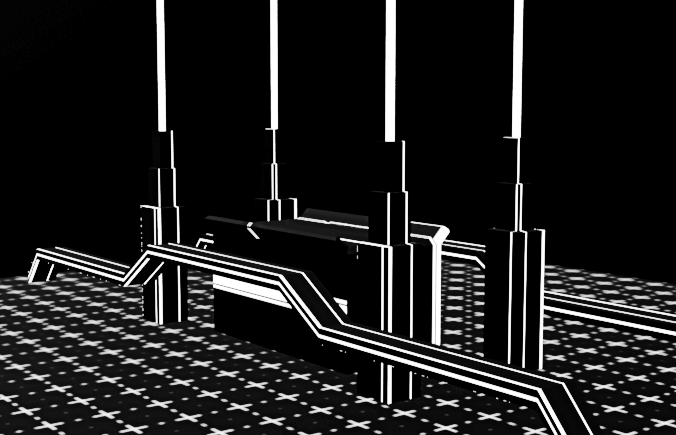
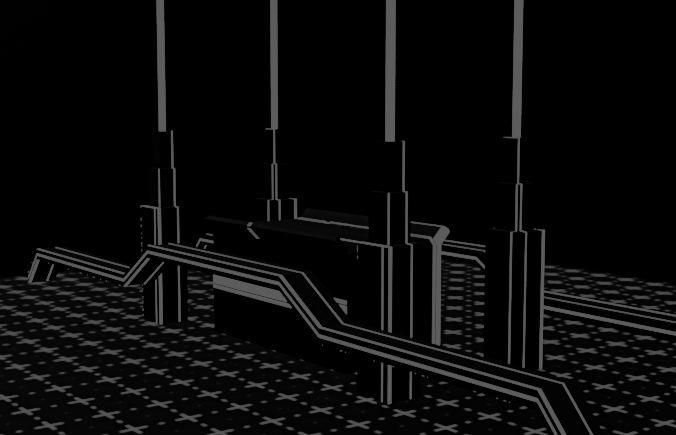
settings_graphics
modified:
	- new images with better contrast
	- modified colors with a better render
	(store/index.js)
	(assets/play_board/map1 and map2 .png)

diff --git a/frontend/src/store/index.js b/frontend/src/store/index.js
@@ -52,28 +52,28 @@ const theme_colors = {
 		b_color: 'hsl(120, 100%, 7%)',
 		logo_color: 'sepia(100%) saturate(1000%) hue-rotate(-240deg) contrast(180%) brightness(1.2)',
 		mesh_color: '#00ff00',
-		image_color: 'sepia(100%) saturate(3000%) hue-rotate(-285deg) contrast(100%) brightness(1.2)',
+		image_color: 'sepia(100%) saturate(1000%) hue-rotate(-285deg) contrast(180%) brightness(1.2)',
 	},
 	red: {
 		color: 'hsl(0, 100%, 59%)',
 		b_color: 'hsl(0, 100%, 7%)',
 		logo_color: 'sepia(100%) saturate(1000%) hue-rotate(-35deg) contrast(180%) brightness(1.2)',
 		mesh_color: '#ff0000',
-		image_color: 'sepia(100%) saturate(1000%) hue-rotate(-40deg) contrast(100%) brightness(1.0)',
+		image_color: 'sepia(100%) saturate(1000%) hue-rotate(-30deg) contrast(180%) brightness(1.2)',
 	},
 	yellow: {
 		color: 'hsl( 60, 100%, 50%)',
 		b_color: 'hsl( 90, 100%, 7%)',
 		logo_color: 'sepia(100%) saturate(1000%) hue-rotate(35deg) contrast(100%) brightness(1.8)',
 		mesh_color: '#ffff00',
-		image_color: 'sepia(100%) saturate(1000%) hue-rotate(35deg) contrast(100%) brightness(1.5)',
+		image_color: 'sepia(100%) saturate(1000%) hue-rotate(35deg) contrast(100%) brightness(1.8)',
 	},
 	blue: {
 		color: 'hsl(180, 90%,  50%)',
 		b_color: 'hsl(180, 100%, 7%)',
 		logo_color: 'sepia(100%) saturate(1000%) hue-rotate(-210deg) contrast(120%) brightness(1.8)',
 		mesh_color: '#00ffff',
-		image_color: 'sepia(100%) saturate(1000%) hue-rotate(-210deg) contrast(90%) brightness(1.2)',
+		image_color: 'sepia(100%) saturate(1000%) hue-rotate(-210deg) contrast(120%) brightness(1.8)',
 	},
 }
 
